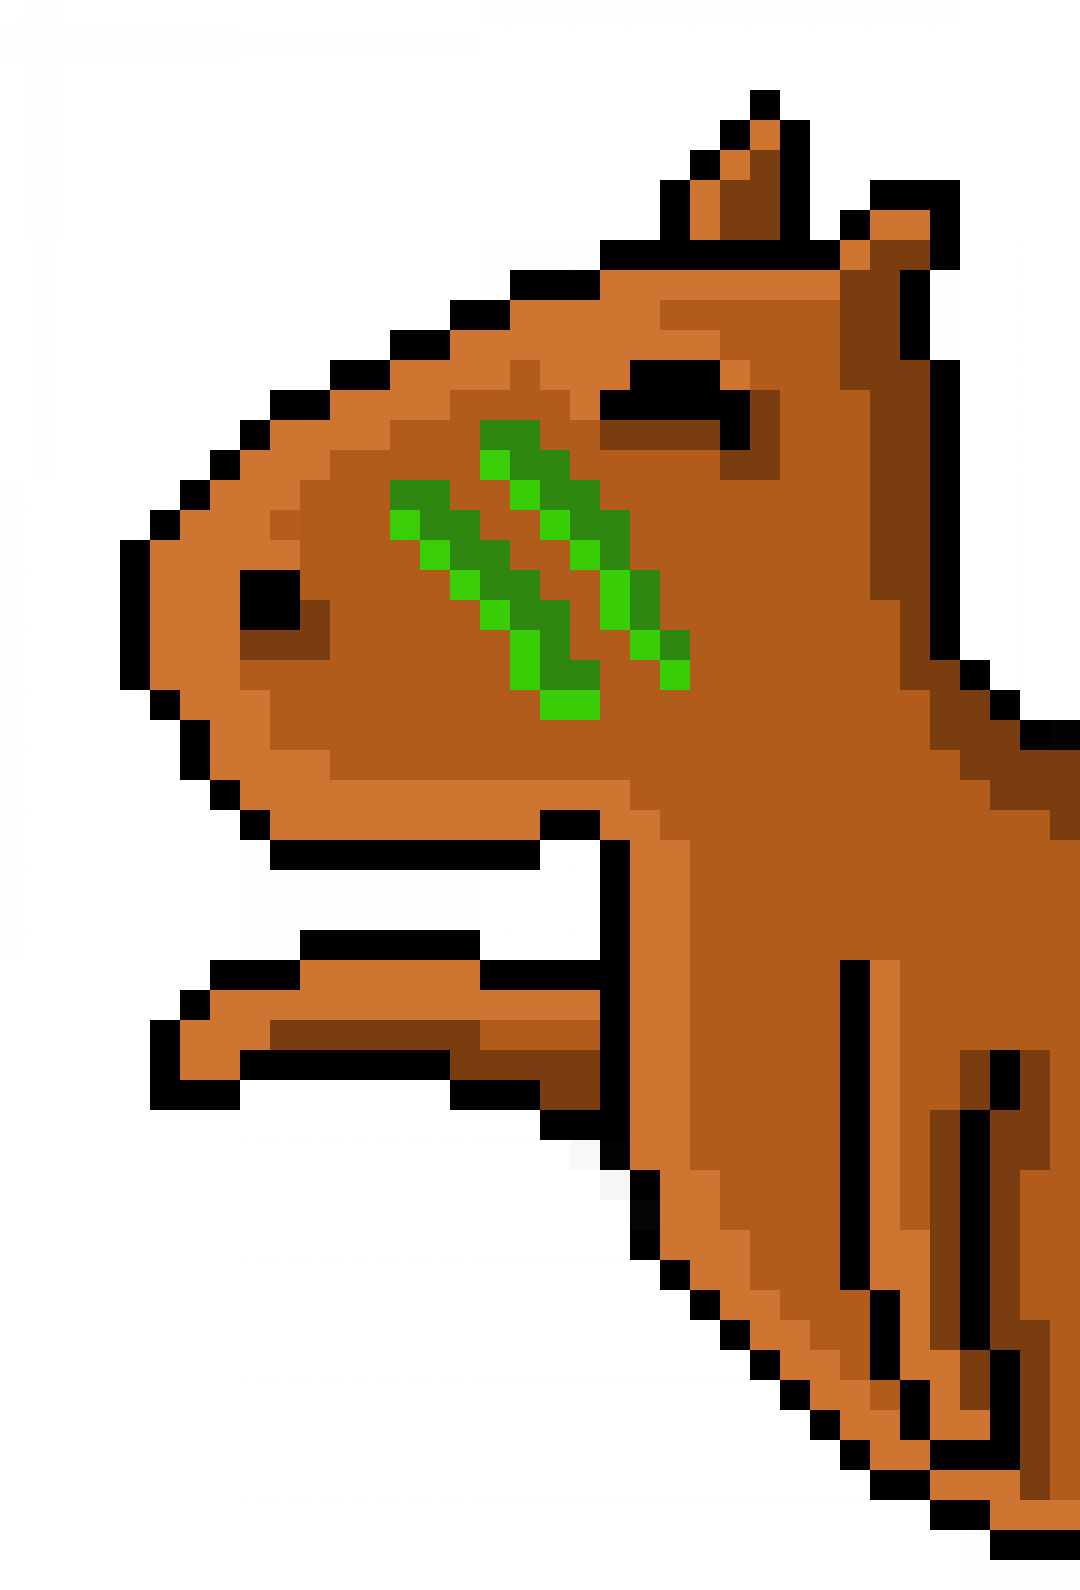
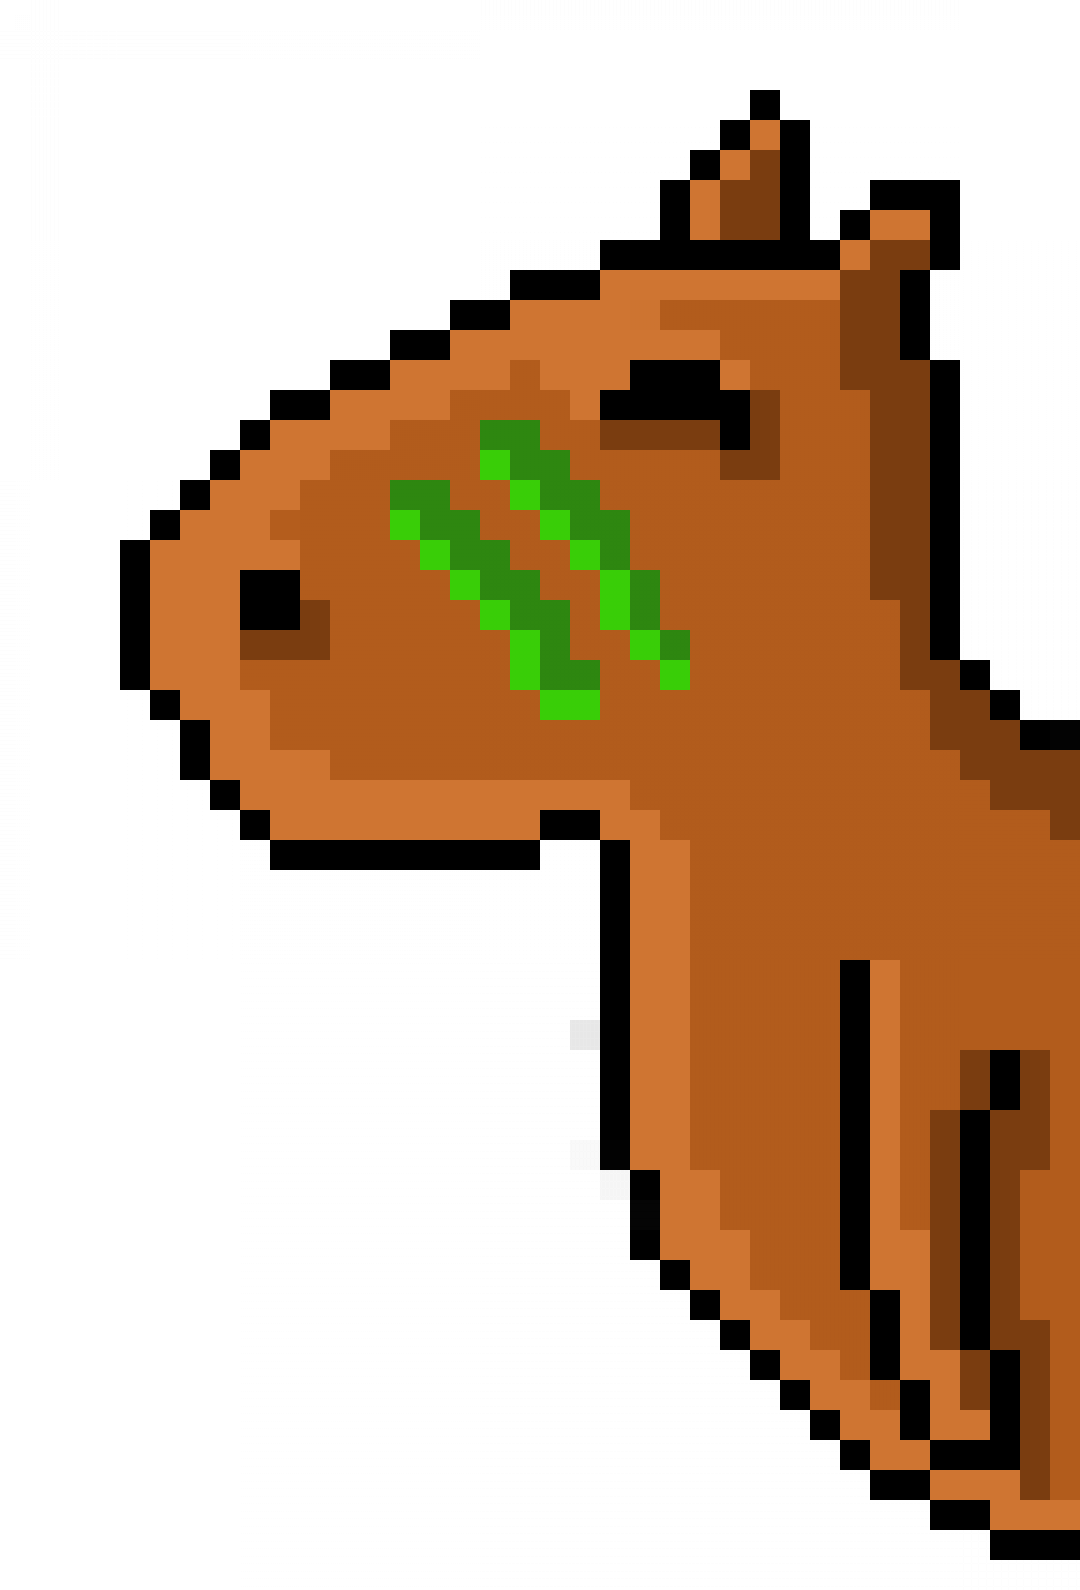
animação da capii

Changed region(s): [[0.1222, 0.5855, 0.5806, 0.7396]]

diff --git a/Arte/animação/capi-hello.html b/Arte/animação/capi-hello.html
@@ -1,0 +1,42 @@
+<!DOCTYPE html>
+<html lang="en">
+
+<head>
+    <meta charset="UTF-8">
+    <meta name="viewport" content="width=device-width, initial-scale=1.0">
+    <meta http-equiv="X-UA-Compatible" content="ie=edge">
+    <title>Capii Hello</title>
+    <style>
+        .hi {
+            width: 180px;
+            height: 265px;
+            /* width: 50px;
+            height: 72px; */
+            background-image: url("./capii-hello-sprite_180x265.png");
+            /* background-image: url("http://s.cdpn.io/79/sprite-steps.png"); */
+            /* 10x imagens de 50x72 */
+
+            animation: play .3s steps(4) infinite;
+            /* animation: play .8s steps(10) infinite; */
+            /* .8s = duração   steps(10) = qtd de partes */
+        }
+
+        @keyframes play {
+            from {
+                background-position: 0px;
+            }
+
+            to {
+                background-position: -720px;
+                /* background-position: -500px; */
+                /* comprimento do sprite */
+            }
+        }
+    </style>
+</head>
+
+<body>
+    <div class="hi"></div>
+</body>
+
+</html>
